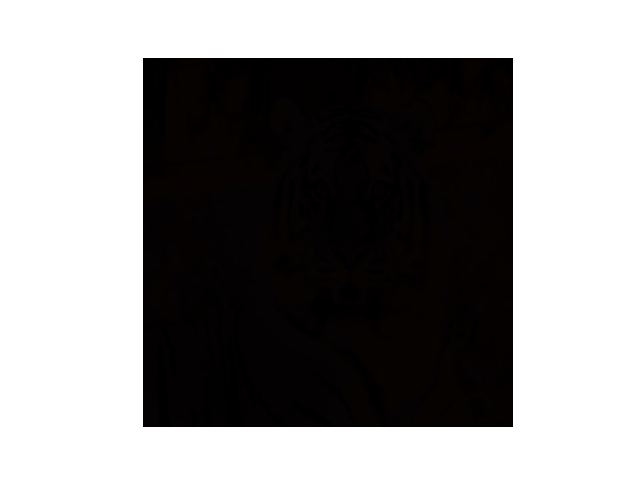
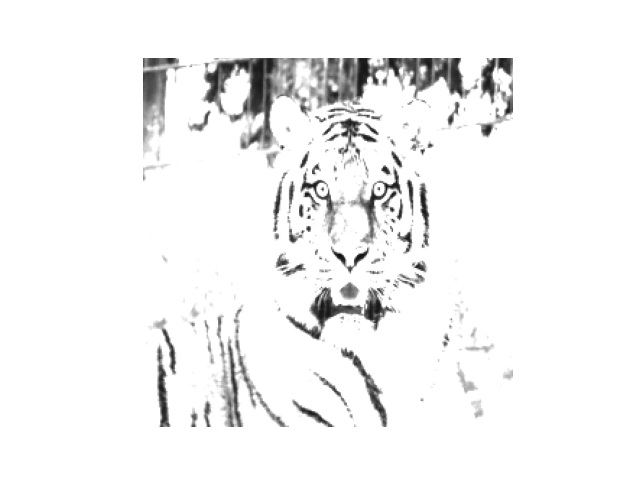
fixing model evaulation

diff --git a/train.py b/train.py
@@ -15,7 +15,7 @@ def print_model_parameters(model):
         if param.requires_grad:
             print(name, param.data)
 
-def train(net, train_loader, criterion, optimizer, num_epochs, report_interval = 2):
+def train(net, train_loader, criterion, optimizer, num_epochs, report_interval = 5):
     net.train()
     running_loss = 0
     for epoch in range(num_epochs):
@@ -50,7 +50,7 @@ def train(net, train_loader, criterion, optimizer, num_epochs, report_interval =
             # print(l_channel.shape)
             # print("res_shape")
             # print(results.shape)
-            reshaped_results = results.view(results.size(0), 256, 256, 2)
+            reshaped_results = results.view(results.size(0), 256, 256, 2) * 255.0
 
             #lab_output = torch.from_numpy(np.concatenate((l_channel, reshaped_resultsd.detach().numpy()), axis=3))
             lab_output = torch.cat((l_channel, reshaped_results), dim = 3)
@@ -66,13 +66,13 @@ def train(net, train_loader, criterion, optimizer, num_epochs, report_interval =
 
             running_loss += loss.item()
             if i % report_interval + 1 == report_interval:
-                print("chan_l")
-                print(l_channel[0,:5,:5,0])
-                print("chan_a")
-                print(reshaped_results[0,:5,:5,0])
-                print("chan_b")
-                print(reshaped_results[0,:5,:5,1])
-                print("cat_chan_l")
+                # print("chan_l")
+                # print(l_channel[0,:5,:5,0])
+                # print("chan_a")
+                # print(reshaped_results[0,:5,:5,0])
+                # print("chan_b")
+                # print(reshaped_results[0,:5,:5,1])
+                # print("cat_chan_l")
                 # print(lab_output[0,:5,:5,0])     
                 # print("cat_chan_a")
                 # print(lab_output[0,:5,:5,1])

diff --git a/main.py b/main.py
@@ -21,7 +21,7 @@ def main():
     print("main.py")
     # Define hyperparameters
     batch_size = 32
-    learning_rate = 1
+    learning_rate = .01
     num_epochs = 1
 
     num_channels_in = 1
@@ -33,12 +33,12 @@ def main():
     train_dataset = ColorizationDataset(train_color_ims[:,:,:,0], train_color_ims)
     test_dataset = ColorizationDataset(test_color_ims[:,:,:,0], test_color_ims)
 
-    print("sample photo")
-    print("l_chan")
-    print(train_color_ims[0,:10,:10,0])
-    print("a_chan")
-    print(train_color_ims[0,:10,:10,1])
-    print("b_chan")
+    # print("sample photo")
+    # print("l_chan")
+    # print(train_color_ims[0,:10,:10,0])
+    # print("a_chan")
+    # print(train_color_ims[0,:10,:10,1])
+    # print("b_chan")
     print(train_color_ims[0,:10,:10,2])
     train_loader = DataLoader(train_dataset, batch_size=batch_size, shuffle=True)
     test_loader = DataLoader(test_dataset, batch_size=batch_size, shuffle=True)
@@ -66,7 +66,7 @@ def main():
       
 
 
-        color_im_out = np.stack((grey, color[:,:,0], color[:,:,1]), axis=-1)
+        color_im_out = np.stack((grey, (y[:,:,0]).detach().numpy() * 255, (y[:,:,1]).detach().numpy() * 255), axis=-1)
         output_imgs.append(color_im_out)
     lab_image = output_imgs[0]
     l_c = lab_image[:,:,0]
